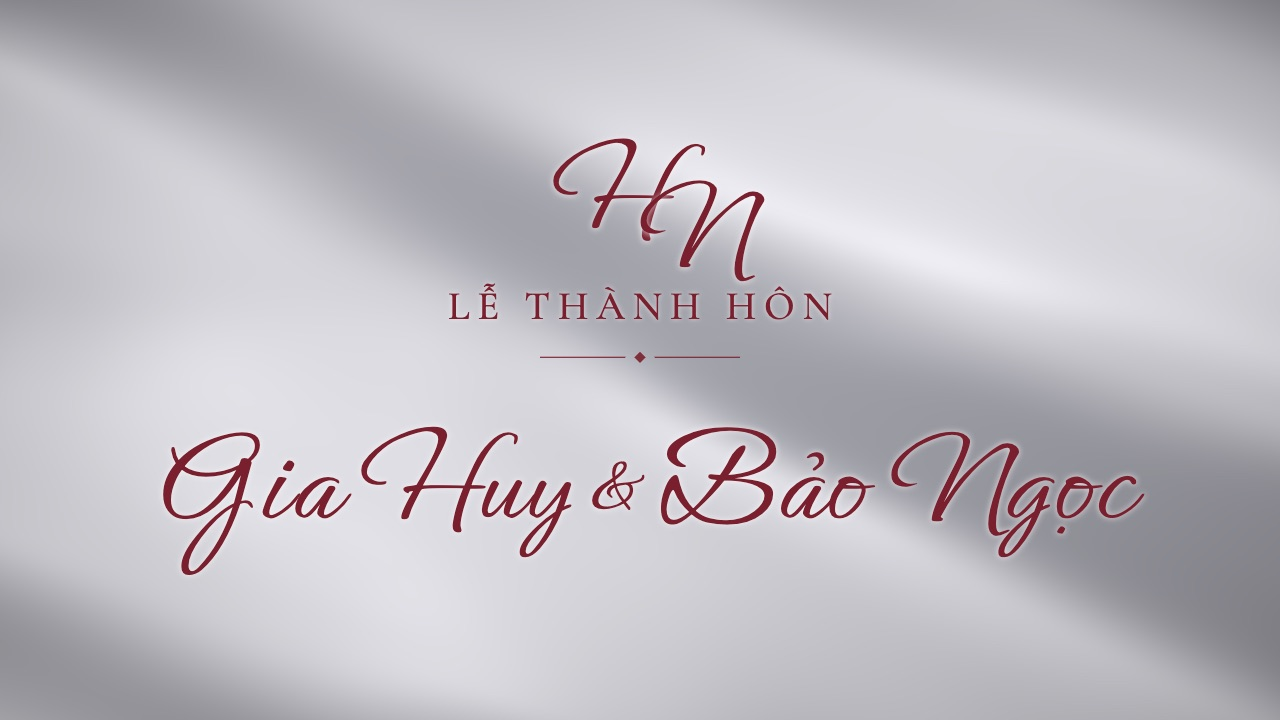
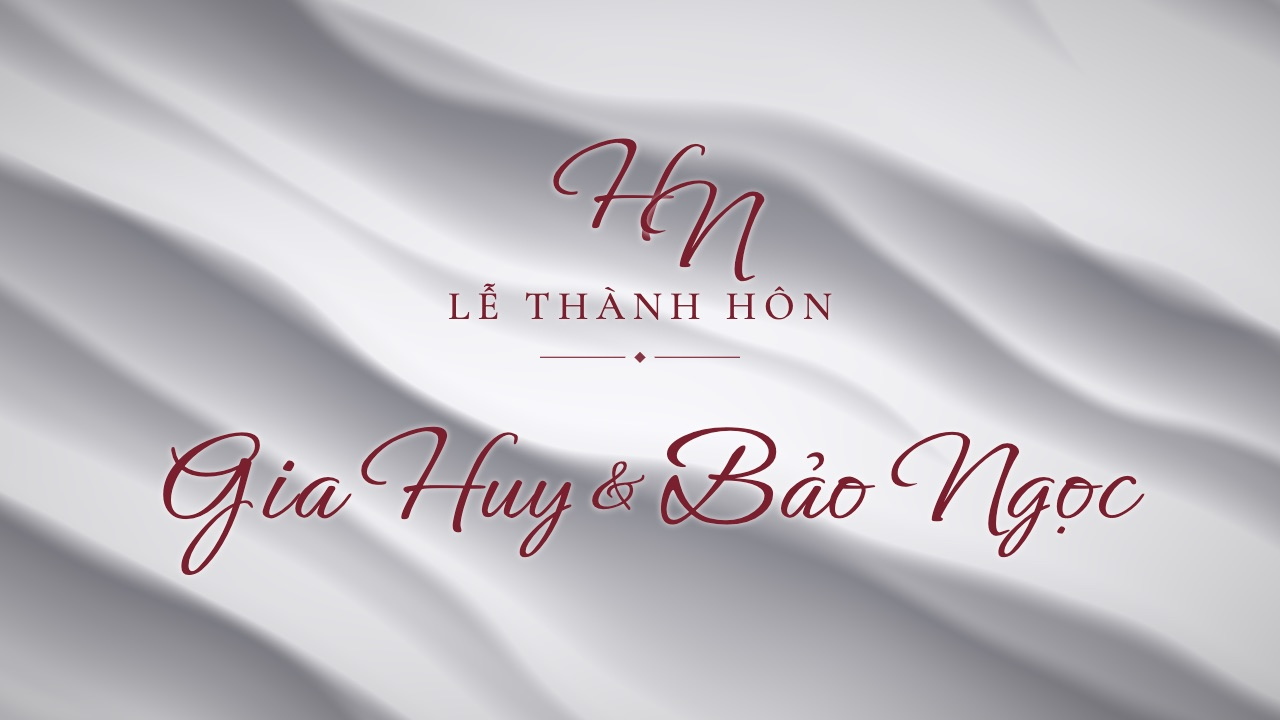
Màn LED lụa satin: vẽ lại mặt vải giống lụa thật — các nếp gấp chồng lên nhau theo 3 lớp (nếp lớn, nếp vừa, nếp nhỏ), mỗi nếp có mép sáng ở một bên rồi tối dần sang khe đen như vải gấp, độ sáng và độ dốc từng nếp khác nhau, vệt bóng satin trên đỉnh nếp; nếp chạy chéo dài, uốn nhẹ và trôi chậm. Bản n

diff --git a/public/led/led.js b/public/led/led.js
@@ -659,14 +659,19 @@
       'float h(vec2 p){return fract(sin(dot(p,vec2(127.1,311.7)))*43758.5453);}' +
       'float n(vec2 p){vec2 i=floor(p),f=fract(p);f=f*f*f*(f*(f*6.0-15.0)+10.0);return mix(mix(h(i),h(i+vec2(1.0,0.0)),f.x),mix(h(i+vec2(0.0,1.0)),h(i+vec2(1.0,1.0)),f.x),f.y);}' +
       'float f2(vec2 p){return 0.6*n(p)+0.3*n(p*2.1+3.7)+0.1*n(p*4.3+9.1);}' +
-      'float H(vec2 p){float t=uT;float a=dot(p,vec2(0.3,0.954)),l=dot(p,vec2(0.954,-0.3));' +                 // a: ngang nếp, l: dọc nếp
-      'float m=f2(vec2(l*0.42+t*0.014,a*0.85)),m2=f2(vec2(l*0.28-t*0.01+7.0,a*0.5+3.0));' +                      // nếp uốn lượn chậm dọc theo chiều dài
-      'return 0.6*sin(a*3.3+5.2*m+t*0.09)+0.3*sin(a*6.4+l*0.7+6.0*m2-t*0.065)+0.09*sin(a*13.0+4.0*m+l*1.4+t*0.05);}' +
-      'void main(){vec2 p=(gl_FragCoord.xy-0.5*uRes)/uRes.y*1.2;float e=0.004;float h0=H(p),hx=H(p+vec2(e,0.0)),hy=H(p+vec2(0.0,e));' +
-      'vec3 N=normalize(vec3(-(hx-h0)/e*0.2,-(hy-h0)/e*0.2,1.0));vec3 L=normalize(vec3(-0.25,0.5,0.83));vec3 Hh=normalize(L+vec3(0.0,0.0,1.0));' +
-      'float df=max(dot(N,L),0.0);float sp=pow(max(dot(N,Hh),0.0),60.0);float sp2=pow(max(dot(N,Hh),0.0),9.0);' +
-      'vec3 col=mix(uA,uB,pow(smoothstep(0.35,1.0,df),1.5))+uC*(sp*0.55+sp2*0.22);' +
-      'vec2 q=gl_FragCoord.xy/uRes-0.5;col*=1.0-0.55*dot(q,q);gl_FragColor=vec4(col,1.0);}',
+      // một lớp nếp gấp: u tăng dần ngang nếp; mỗi nếp có mép sáng sắc ở một bên rồi tối dần sang bên kia tới đen (như nếp vải chồng lên nhau),
+      // độ sáng + độ dốc mỗi nếp khác nhau
+      'float fold(float u,float sharp){float s=fract(u),r=h(vec2(floor(u),7.0));return smoothstep(0.0,sharp,s)*pow(1.0-s,0.7+1.6*r)*(0.55+0.65*h(vec2(floor(u),3.0)));}' +
+      'void main(){vec2 p=(gl_FragCoord.xy-0.5*uRes)/uRes.y;float t=uT;' +
+      'float a=dot(p,vec2(0.53,0.848)),l=dot(p,vec2(0.848,-0.53));' +                                              // a: ngang nếp, l: dọc nếp (chéo từ trên-trái xuống dưới-phải)
+      'float m=f2(vec2(l*0.55+t*0.012,a*0.7+1.0)),m2=f2(vec2(l*0.9-t*0.009+7.0,a*1.3+3.0)),m3=f2(vec2(l*0.35+t*0.006+2.0,a*0.4));' +
+      'float u1=a*2.1+2.0*m+0.7*m3+t*0.022,u2=a*4.4+2.4*m2+1.0*m-t*0.017,u3=a*8.5+3.0*m+1.2*m2+t*0.012;' +
+      'float b1=fold(u1,0.16),b2=fold(u2,0.2),b3=fold(u3,0.28);' +
+      'float broad=0.55+0.45*sin(a*1.5+3.0*m3+t*0.03);' +
+      'float v=(b1*1.0+b2*0.6*(0.35+0.65*b1+0.3*broad)+b3*0.22*b1)*(0.6+0.55*broad);' +
+      'float sp=pow(clamp(b1*1.15,0.0,1.0),5.0)*0.6+pow(clamp(b2,0.0,1.0),6.0)*0.3;' +
+      'vec3 col=mix(uA,uB,clamp(v*1.6,0.0,1.0))+uC*sp;' +
+      'vec2 q=gl_FragCoord.xy/uRes-0.5;col*=1.0-0.5*dot(q,q);gl_FragColor=vec4(col,1.0);}',
     prog: function (vs, fs) {
       var gl = this.gl, mk = function (t, src) { var sh = gl.createShader(t); gl.shaderSource(sh, src); gl.compileShader(sh); if (!gl.getShaderParameter(sh, gl.COMPILE_STATUS)) throw new Error(gl.getShaderInfoLog(sh)); return sh; };
       var p = gl.createProgram(); gl.attachShader(p, mk(gl.VERTEX_SHADER, vs)); gl.attachShader(p, mk(gl.FRAGMENT_SHADER, fs)); gl.linkProgram(p);
@@ -888,8 +893,8 @@
       draw: function (dt, t) { if (this.useGl && GLFX.gl) GLFX.draw(dt); else FX.lua.draw.call(FX.lua, dt, t); },
     };
   };
-  FX.satindo = silkFx([[0.035, 0.0, 0.004], [0.5, 0.03, 0.04], [0.6, 0.14, 0.1]]);
-  FX.satinnga = silkFx([[0.62, 0.62, 0.65], [0.9, 0.9, 0.92], [0.12, 0.12, 0.12]]);
+  FX.satindo = silkFx([[0.012, 0.0, 0.0], [0.62, 0.05, 0.035], [0.3, 0.1, 0.07]]);
+  FX.satinnga = silkFx([[0.55, 0.55, 0.58], [0.96, 0.96, 0.97], [0.06, 0.06, 0.06]]);
   FX.saoroi = { mode: 'saoroi', init: FX.dembac.init, draw: FX.dembac.draw, fall: FX.dembac.fall }; // biến thể của Đêm kim tuyến bạc (xem GLFX)
   function isVideo() { return !!(C.videos && C.videos[L.effect]); }
   function setupVideo() {
